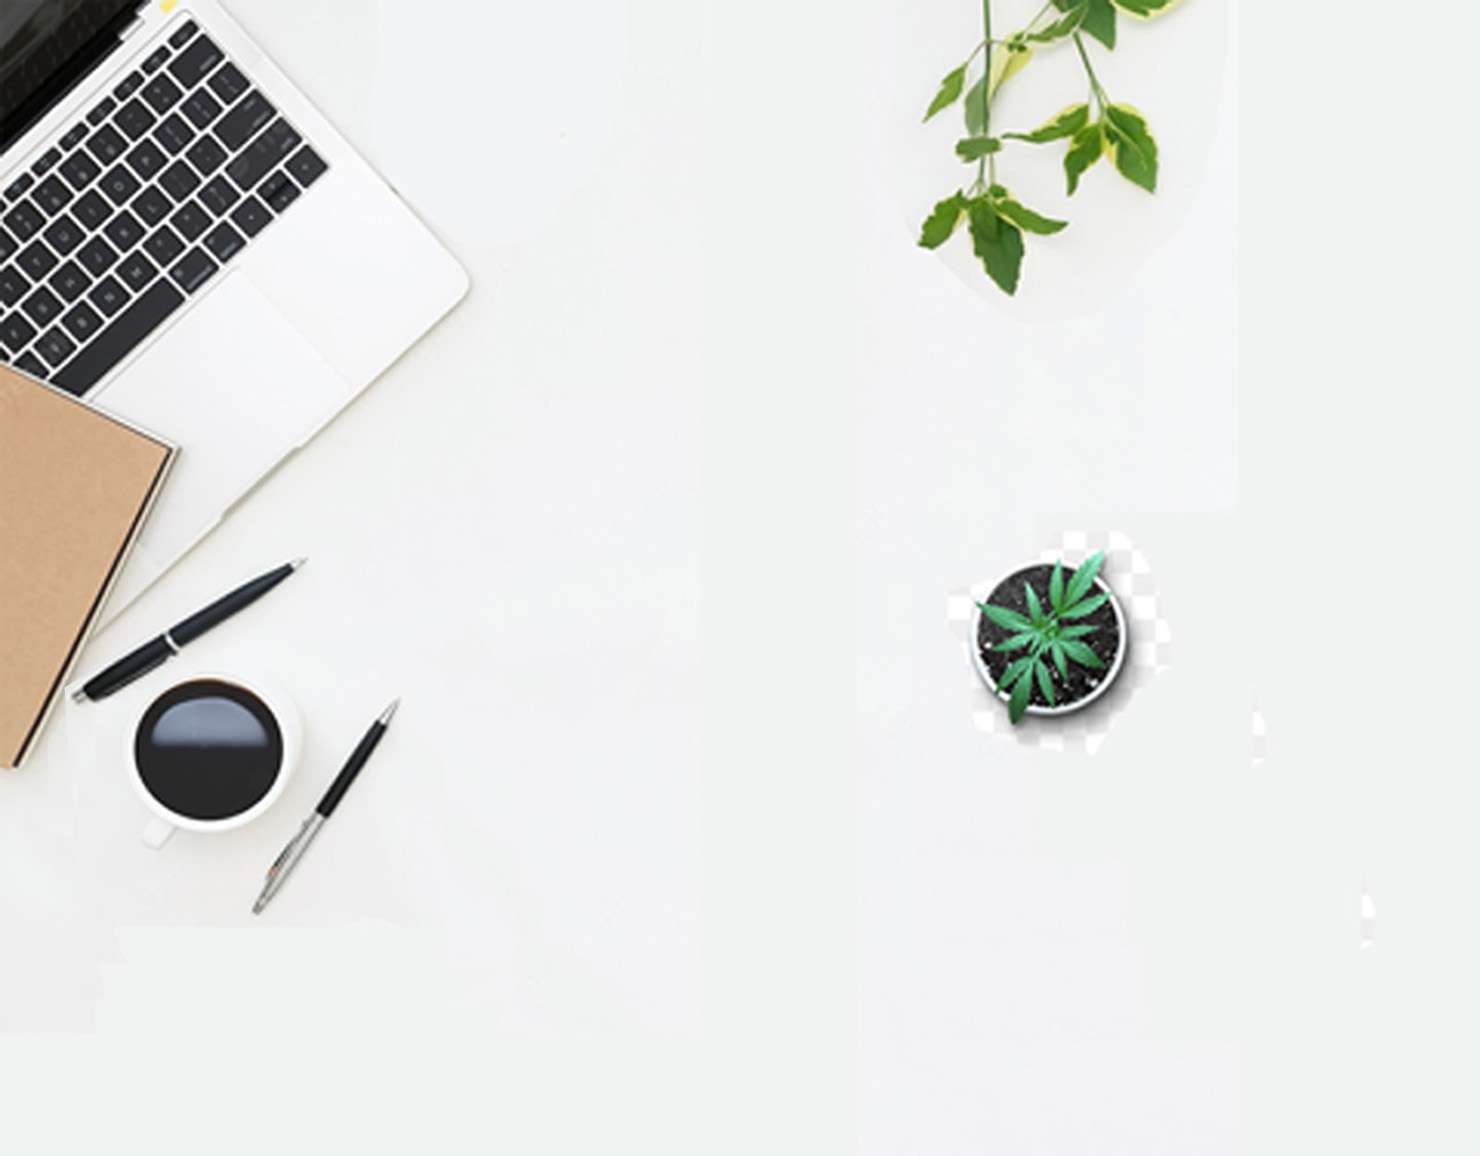
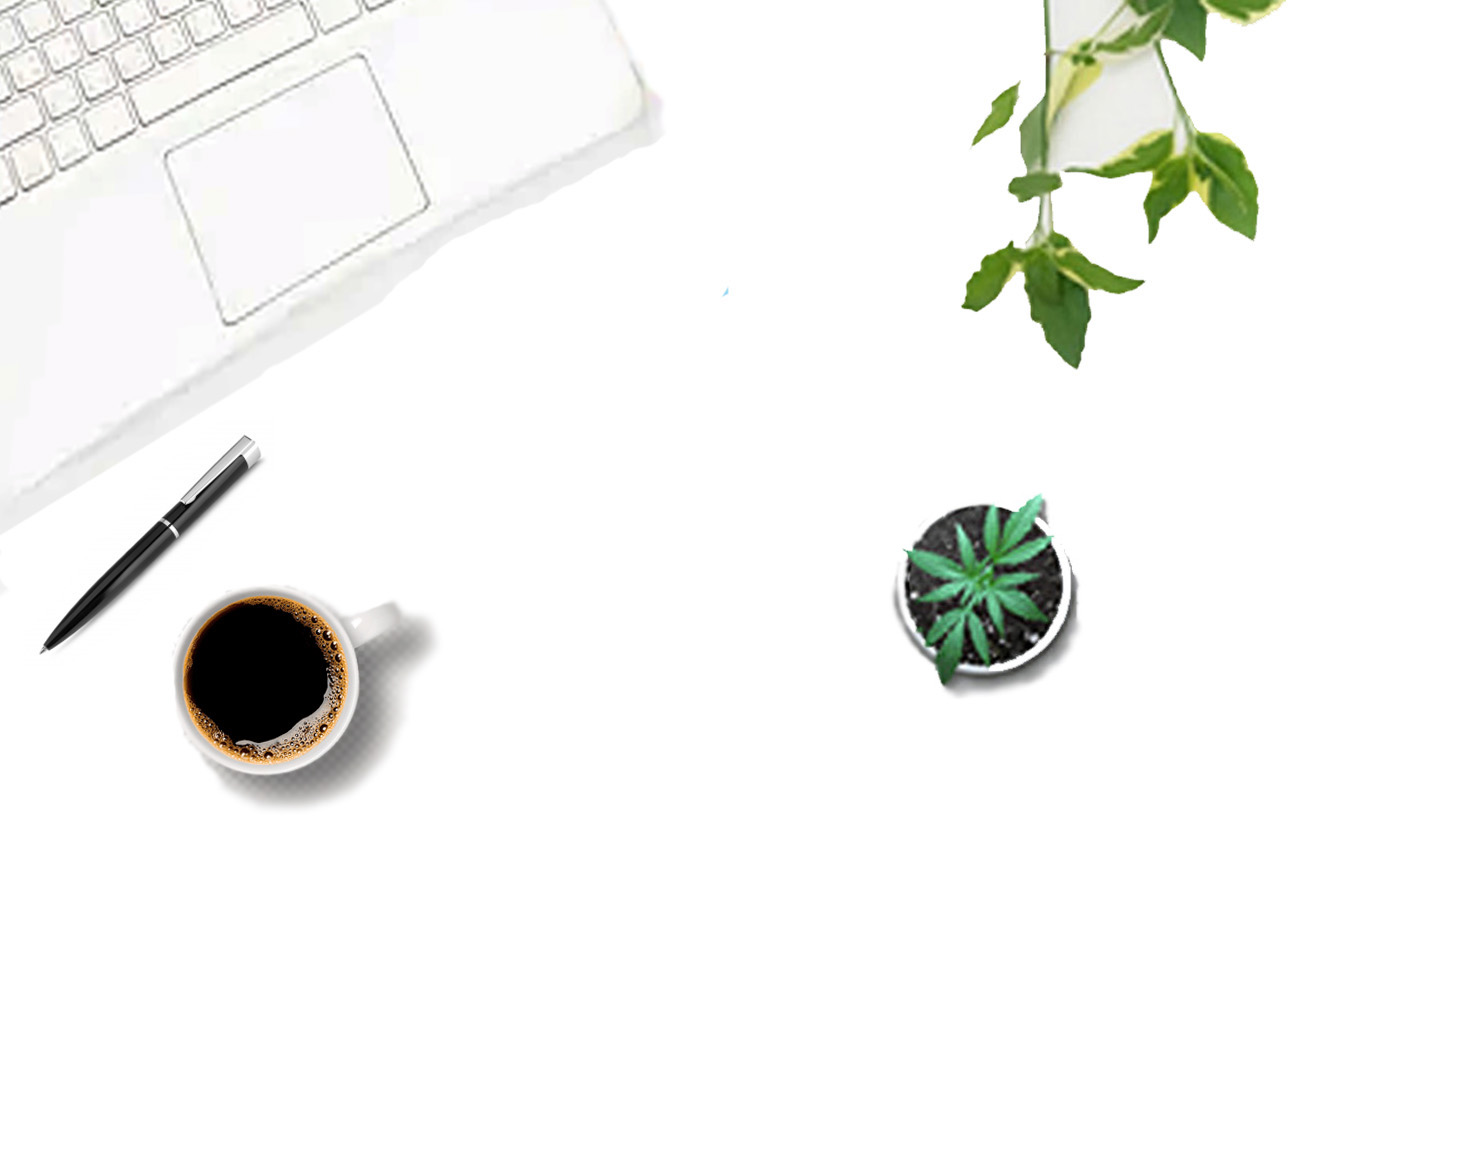
Projeto final , porem sem o arquivo reset

diff --git a/index.html b/index.html
@@ -2,12 +2,13 @@
 <html lang="pt-BR">
     <head>
         <meta charset="UTF-8">
+        <meta name="viewport" content="width=device-width initial-scale=1.0">
         <title></title>
         <link rel="stylesheet" href="reset.css">
         <link rel="stylesheet" href="style.css">
         <link href="https://fonts.googleapis.com/css2?family=Montserrat&display=swap" rel="stylesheet">
     <br> 
-        <h1>Criptografia de Texto - Alura  </h1>
+        <h1>Criptografia de Texto - <a href="https://www.alura.com.br">Alura</a></h1>
         <p>Oracle Next Education F2 T3</p>
    
     </head>
@@ -16,106 +17,33 @@
         <br>
         
         <table width="100%" border="5" cellspacing="30" cellpadding="120">
-
             <tr>
-
                 <td align = "center">
                     <label for="0">Digite o texto</label><br>
-                    <textarea  name="1" id="0" rows="7" cols="30"></textarea> <br/>
+                    <textarea  name="1" id="0" rows="7 rem" cols="30"></textarea> <br/>
                     <input type="button" value="Criptografar Texto" onclick="Cript();"/>
                 </td>
 
                 <td align = "center">
                     <label for="1">Texto codificado</label><br>
                     <textarea name = "2" id = "1" rows = "7" cols="30"></textarea> <br/>
-                    <input type="button" value="Limpar" onclick="Limpar();"/>   
+                    <input type="button"  value="Limpar" onclick="Limpar();"/>   
                 </td>
 
                 <td align = "center">
                     <label for="2">Descriptografar</label><br>
                     <textarea  name = "3" id = "2" rows = "7" cols="30" ></textarea> <br/>
-                    <input type = "button" value = "Descripto" onclick = "Descry();" />
+                    <input type = "button"  value = "Descripto" onclick = "Descry();"/ >
                 </td>
             </tr>
         </table>
-        <script language="javascript">
-
-            function ASC(String) {
-                return String.charCodeAt(0);
-            }
-
-            function CHAR(Ascii) {
-                return String.fromCharCode(Ascii);
-            }
-
-            var chave = "qwertasdfgzxcvbyuiopghjkljumdrftasdfgasdfqwdefrgtyhju";
-
-            function Cript() {
-                
-                var dados = document.getElementById("0").value;
-                var texto = "";
-                var len;
-                var p = 0;
-                var i;
-
-                for ( i = 0; i < dados.length; i++ ) {
-                    p++;
-                    len = (ASC(dados.substr(i,1)) + (ASC(chave.substr(p,1))));
-                    
-                    if ( p == 50 ) {
-                        p = 1;
-                    }
-
-                    if ( len > 255 ) {
-                        len -= 256;
-                    }
-
-                    texto += (CHAR(len));
-                }
-                
-
-                document.getElementById("1").value = texto;
-            }
-
-            function Descry() {
-                
-                var dados = document.getElementById("1").value;
-                var texto = "";
-                var len;
-                var p = 0;
-                var i;
-
-                for ( i = 0; i < dados.length; i++ ) {
-                    p++;
-                    len = (ASC(dados.substr(i,1)) - (ASC(chave.substr(p,1))));
-                    
-                    if ( p == 50 ) {
-                        p = 1;
-                    }
-
-                    if ( len < 0 ) {
-                        len += 256;
-                    }
-
-                    texto += (CHAR(len));
-                }
-                
-
-                document.getElementById("2").value = texto;
-            }
-
-            function Limpar() {
-                for (var i = 0; i < 3; i++) {
-                    document.getElementById(i).value = "";
-                }
-
-            }
-   
-        </script>
+ 
+        <script src="desafioCryptografia.js"> </script>
 
     </body> 
+
     <footer>
         <p class="copyright">&copy;Copyright ArtDesk - 2022</p>
-
     </footer>
+
 </html>   

diff --git a/style.css b/style.css
@@ -1,14 +1,11 @@
 body {
-	font-family: 'Montserrat';
+	font-family: 'Montserrat', sans-serif;
 	background-image: url('cryptoBanner.jpg');
+	background-repeat: no-repeat;
+	
 }
 
-.imagemComputador {
-	float:left ;
-}
-
-h1{
-	text-transform: uppercase;
+h1 {
 	text-align: center;
 	color: #1E90FF;
 	font-weight:bold;
@@ -21,29 +18,34 @@ p {
 	font-size: 20px;
 }
 
-table {
-	width="100%"
-	border="5"
-	cellspacing="30"
-	cellpadding="120"
-	margin: 10px 0;
-}
 textarea {
     resize: none;
     font-size: 20px;
     box-shadow: 10px 10px 5px #708090;
 }
 
-tr, td{
+tr, td {
 	display: block;
 	margin: 0 0 20px;
 	color: #1E90FF;
 	font-weight:bold;
 	font-size: 18px;
 	text-decoration: none;
-
 }
 
+input[type="button"] {
+ 	font-size: 14px;
+ 	width: 15%;
+ 	padding: 6px 0;
+ 	background: green;
+ 	color: white;
+ 	font-weight: bolder;
+ 	border: none;
+ 	border-radius: 5px;
+ 	cursor: pointer;
+
+}
+ 
 .copyright {
 	text-align: center;
 	color: #000000;
@@ -52,21 +54,26 @@ tr, td{
 
 @media screen and (max-width:480px ) {
 
-	body{
-		display: flex;
-		flex: direction: column;
-		align-items: center;
-		background-image: url('cryptoBanner.jpg');
-		background-size: cover;
-		background-repeat: no-repeat;
-		background-position: center;
-		text-align: center;
-		padding: 20px;
+body {
+	background-image: url('cryptoBannerTop.jpg');
+	background-size: 700px ;
+}
+h1{
+	font-size: 25px;
+	color: #0000FF;
 
+}
+	
+p {
+	font-size: 16px;
+	color: #0000FF;
+	font-weight:bold;
+}
+tr, td {
+	font-size: 20px;
+	color: #0000FF;
+}
 
-	} 
-	textarea{
-		width: auto;
-	}
-		
+input[type="button"] {
+	width: 40%;
 }

diff --git a/desafioCryptografia.js b/desafioCryptografia.js
@@ -1,0 +1,72 @@
+function ASC(String) {
+    return String.charCodeAt(0);
+}
+
+function CHAR(Ascii) {
+    return String.fromCharCode(Ascii);
+}
+
+var chave = "qwertasdfgzxcvbyuiopghjkljumdrftasdfgasdfqwdefrgtyhju";
+
+function Cript() {
+    
+    var dados = document.getElementById("0").value;
+    var texto = "";
+    var len;
+    var p = 0;
+    var i;
+
+    for ( i = 0; i < dados.length; i++ ) {
+        p++;
+        len = (ASC(dados.substr(i,1)) + (ASC(chave.substr(p,1))));
+        
+        if ( p == 50 ) {
+            p = 1;
+        }
+
+        if ( len > 255 ) {
+            len -= 256;
+        }
+
+        texto += (CHAR(len));
+    }
+    
+
+    document.getElementById("1").value = texto;
+}
+
+function Descry() {
+    
+    var dados = document.getElementById("1").value;
+    var texto = "";
+    var len;
+    var p = 0;
+    var i;
+
+    for ( i = 0; i < dados.length; i++ ) {
+        p++;
+        len = (ASC(dados.substr(i,1)) - (ASC(chave.substr(p,1))));
+        
+        if ( p == 50 ) {
+            p = 1;
+        }
+
+        if ( len < 0 ) {
+            len += 256;
+        }
+
+        texto += (CHAR(len));
+    }
+    
+
+    document.getElementById("2").value = texto;
+}
+
+function Limpar() {
+    for (var i = 0; i < 3; i++) {
+        document.getElementById(i).value = "";
+    }
+
+}
+
+
